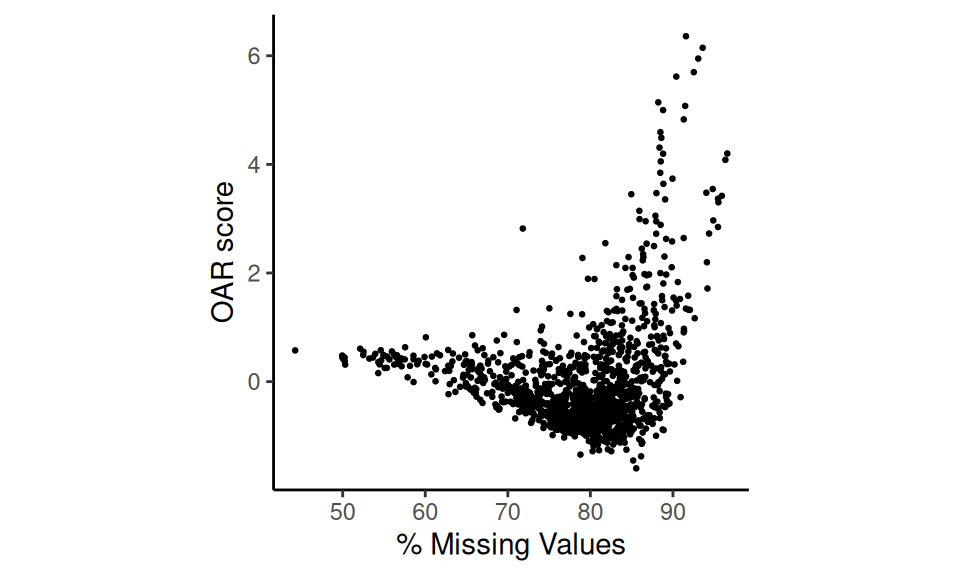
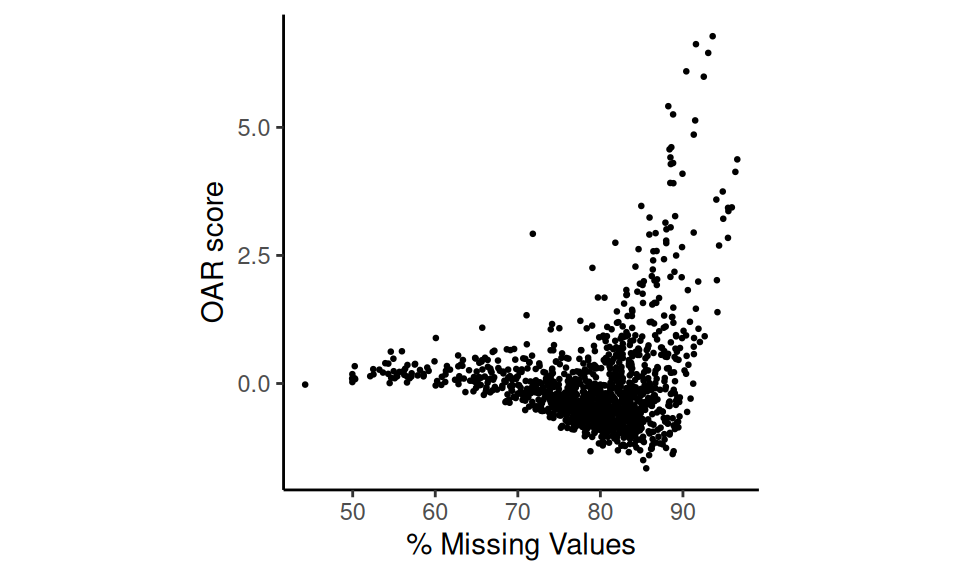
Deploying to gh-pages from @ Sanin-Lab/OARscRNA@3da549bfb78835ca9a3c819335ce7294ecba3215 🚀

diff --git a/articles/detailed_tutorial.html b/articles/detailed_tutorial.html
@@ -223,15 +223,13 @@ of this approach.</p>
 <code class="sourceCode R"><span><span class="va">mdp_auto_tol</span> <span class="op">&lt;-</span> <span class="fu"><a href="../reference/oar_missing_data_patterns.html">oar_missing_data_patterns</a></span><span class="op">(</span></span>
 <span>  <span class="va">oar_data</span><span class="op">[[</span><span class="fl">1</span><span class="op">]</span><span class="op">]</span>, <span class="va">dm</span>, tolerance <span class="op">=</span> <span class="cn">T</span><span class="op">)</span></span>
 <span><span class="co">#&gt; [1] "Scanning for optimal tolerance..."</span></span>
-<span><span class="co">#&gt; [1] "Tolerance set to 0.03"</span></span>
-<span><span class="co">#&gt; [1] "Identified 6 non-unique missing data patterns"</span></span>
-<span><span class="co">#&gt; [1] "A total of 187 genes captured in non-unique patterns"</span></span>
+<span><span class="co">#&gt; [1] "Tolerance set to 0.02"</span></span>
+<span><span class="co">#&gt; [1] "Identified 2 non-unique missing data patterns"</span></span>
+<span><span class="co">#&gt; [1] "A total of 593 genes captured in non-unique patterns"</span></span>
 <span><span class="fu"><a href="https://rdrr.io/r/base/table.html" class="external-link">table</a></span><span class="op">(</span><span class="va">mdp_auto_tol</span><span class="op">)</span></span>
 <span><span class="co">#&gt; mdp_auto_tol</span></span>
-<span><span class="co">#&gt;    B1.Pattern 1    B1.Pattern 2    B1.Pattern 3    B1.Pattern 4    B2.Pattern 1 </span></span>
-<span><span class="co">#&gt;               6              25              11               2               3 </span></span>
-<span><span class="co">#&gt;    B9.Pattern 1 Unique patterns </span></span>
-<span><span class="co">#&gt;             140           11519</span></span></code></pre></div>
+<span><span class="co">#&gt;  B1.P8 B10.P1 Unique </span></span>
+<span><span class="co">#&gt;    469    124  11113</span></span></code></pre></div>
 <p><strong>A few considerantions on tolerance setting:</strong> - Using
 a tolerance of 0 <em>(i.e. allowing only for exact matches)</em> results
 in very few, and often no, co-expressed gene patterns. This
@@ -248,7 +246,7 @@ will be faster. Values greater than 0 and lower than 0.05 are
 recommended.</p>
 <div class="sourceCode" id="cb8"><pre class="downlit sourceCode r">
 <code class="sourceCode R"><span><span class="fu"><a href="../reference/oar_missing_data_patterns.html">oar_missing_data_patterns</a></span><span class="op">(</span><span class="va">oar_data</span><span class="op">[[</span><span class="fl">1</span><span class="op">]</span><span class="op">]</span>, <span class="va">dm</span>, tolerance <span class="op">=</span> <span class="fl">0.05</span><span class="op">)</span></span></code></pre></div>
-<p>In this dataset a tolerance of 0.03 produced the best results, with 6
+<p>In this dataset a tolerance of 0.02 produced the best results, with 7
 distinct patters found across cells (plus the combination of all genes
 with non-unique patterns). We can visualize these results like this:</p>
 <div class="sourceCode" id="cb9"><pre class="downlit sourceCode r">
@@ -279,11 +277,11 @@ the gene expression values and the missing data patterns.</p>
 <code class="sourceCode R"><span><span class="va">output</span> <span class="op">&lt;-</span> <span class="fu"><a href="../reference/oar_base.html">oar_base</a></span><span class="op">(</span>data <span class="op">=</span> <span class="va">oar_data</span><span class="op">[[</span><span class="fl">1</span><span class="op">]</span><span class="op">]</span>, mdp <span class="op">=</span> <span class="va">mdp_auto_tol</span><span class="op">)</span></span>
 <span><span class="va">output</span><span class="op">$</span><span class="va">barcodes</span> <span class="op">=</span> <span class="va">cells</span> <span class="co">#add back our barcodes</span></span>
 <span><span class="va">output</span></span>
-<span><span class="co">#&gt;           OARscore     KW.pvalue  KW.BH.pvalue pct.missing             barcodes</span></span>
-<span><span class="co">#&gt; 1     1.921628e-01  4.270367e-98  6.172170e-98    79.46352 AAACCTGAGAACAATC-1_1</span></span>
-<span><span class="co">#&gt; 2     5.693256e-01  2.363281e-93  2.813753e-93    87.92927 AAACCTGAGGTGCTAG-1_1</span></span>
-<span><span class="co">#&gt; 3    -8.652167e-01 4.615539e-112 5.361790e-111    85.27251 AAACCTGGTAGCAAAT-1_1</span></span>
-<span><span class="co">#&gt; 4    -1.343913e+00 2.108008e-119 6.550633e-117    78.79720 AAACGGGGTACCCAAT-1_1</span></span>
+<span><span class="co">#&gt;          OARscore     KW.pvalue  KW.BH.pvalue pct.missing             barcodes</span></span>
+<span><span class="co">#&gt; 1     0.119972739  1.200031e-90  1.728434e-90    79.46352 AAACCTGAGAACAATC-1_1</span></span>
+<span><span class="co">#&gt; 2    -0.064520663  1.455368e-92  2.428218e-92    87.92927 AAACCTGAGGTGCTAG-1_1</span></span>
+<span><span class="co">#&gt; 3    -1.143314583 7.776601e-105 3.580117e-103    85.27251 AAACCTGGTAGCAAAT-1_1</span></span>
+<span><span class="co">#&gt; 4    -1.323178977 3.152359e-107 5.597688e-105    78.79720 AAACGGGGTACCCAAT-1_1</span></span>
 <span><span class="va">...</span></span></code></pre></div>
 <p>The result is a matrix with these columns:</p>
 <ul>
@@ -380,7 +378,7 @@ missing data patterns (mdp) they have been included in
 <span><span class="co">#&gt; [1] "Extracting data..."</span></span>
 <span><span class="co">#&gt; [1] "Extracting count tables"</span></span>
 <span><span class="co">#&gt; [1] "Analysis started on:"</span></span>
-<span><span class="co">#&gt; [1] "2025-04-29 20:19:58 UTC"</span></span>
+<span><span class="co">#&gt; [1] "2025-04-30 20:19:08 UTC"</span></span>
 <span><span class="co">#&gt; [1] "Identifying missing data patterns..."</span></span>
 <span><span class="va">...</span></span></code></pre></div>
 <p>We set these parameters based on our earlier results and adjusted to

diff --git a/articles/introductory_vignette.html b/articles/introductory_vignette.html
@@ -124,7 +124,7 @@ in the identification of the patterns.</p>
 <span><span class="co">#&gt; [1] "Extracting data..."</span></span>
 <span><span class="co">#&gt; [1] "Extracting count tables"</span></span>
 <span><span class="co">#&gt; [1] "Analysis started on:"</span></span>
-<span><span class="co">#&gt; [1] "2025-04-29 20:21:30 UTC"</span></span>
+<span><span class="co">#&gt; [1] "2025-04-30 20:20:42 UTC"</span></span>
 <span><span class="co">#&gt; [1] "Identifying missing data patterns..."</span></span>
 <span><span class="va">...</span></span></code></pre></div>
 <p>We deliberately left most parameters as defaults, however we
@@ -301,16 +301,16 @@ object by setting <code>seurat_v5</code> to <code>FALSE</code>.</p>
 <span><span class="co">#&gt; Warning in oar(data, seurat_v5 = FALSE, tolerance = TRUE, cores = 1): Running process in fewer than 2 cores will considerably slow down progress</span></span>
 <span><span class="co">#&gt; [1] "Extracting data..."</span></span>
 <span><span class="co">#&gt; [1] "Analysis started on:"</span></span>
-<span><span class="co">#&gt; [1] "2025-04-29 20:21:56 UTC"</span></span>
+<span><span class="co">#&gt; [1] "2025-04-30 20:21:05 UTC"</span></span>
 <span><span class="co">#&gt; [1] "Identifying missing data patterns..."</span></span>
 <span><span class="co">#&gt; [1] "Calculating Hamming distances between gene vectors using specified cores."</span></span>
 <span><span class="va">...</span></span>
 <span><span class="va">oar_data</span></span>
-<span><span class="co">#&gt;           OARscore     KW.pvalue  KW.BH.pvalue pct.missing</span></span>
-<span><span class="co">#&gt; 1     1.921628e-01  4.270367e-98  6.172170e-98    79.46352</span></span>
-<span><span class="co">#&gt; 2     5.693256e-01  2.363281e-93  2.813753e-93    87.92927</span></span>
-<span><span class="co">#&gt; 3    -8.652167e-01 4.615539e-112 5.361790e-111    85.27251</span></span>
-<span><span class="co">#&gt; 4    -1.343913e+00 2.108008e-119 6.550633e-117    78.79720</span></span>
+<span><span class="co">#&gt;          OARscore     KW.pvalue  KW.BH.pvalue pct.missing</span></span>
+<span><span class="co">#&gt; 1     0.119972739  1.200031e-90  1.728434e-90    79.46352</span></span>
+<span><span class="co">#&gt; 2    -0.064520663  1.455368e-92  2.428218e-92    87.92927</span></span>
+<span><span class="co">#&gt; 3    -1.143314583 7.776601e-105 3.580117e-103    85.27251</span></span>
+<span><span class="co">#&gt; 4    -1.323178977 3.152359e-107 5.597688e-105    78.79720</span></span>
 <span><span class="va">...</span></span></code></pre></div>
 <p>This results in a table with the following columns:</p>
 <ul>

diff --git a/articles/Gene_expression.html b/articles/Gene_expression.html
@@ -113,7 +113,7 @@ function. The result is a Seurat object with <code>OARscore</code>,
 <span><span class="co">#&gt; [1] "Extracting data..."</span></span>
 <span><span class="co">#&gt; [1] "Extracting count tables"</span></span>
 <span><span class="co">#&gt; [1] "Analysis started on:"</span></span>
-<span><span class="co">#&gt; [1] "2025-04-29 20:20:15 UTC"</span></span>
+<span><span class="co">#&gt; [1] "2025-04-30 20:19:26 UTC"</span></span>
 <span><span class="co">#&gt; [1] "Identifying missing data patterns..."</span></span>
 <span><span class="va">...</span></span></code></pre></div>
 <p>To explore which cells/clusters have the most heterogeneity, we can
@@ -163,13 +163,13 @@ computing.</p>
 <span>    splines <span class="op">=</span> <span class="cn">TRUE</span>, degrees.freedom <span class="op">=</span> <span class="fl">5</span>,</span>
 <span>    auto.threshold <span class="op">=</span> <span class="cn">TRUE</span>, custom.tr <span class="op">=</span> <span class="cn">NULL</span><span class="op">)</span></span>
 <span><span class="co">#&gt; [1] "Analysis started on:"</span></span>
-<span><span class="co">#&gt; [1] "2025-04-29 20:20:22 UTC"</span></span>
+<span><span class="co">#&gt; [1] "2025-04-30 20:19:33 UTC"</span></span>
 <span><span class="co">#&gt; [1] "Extracting count tables"</span></span>
 <span><span class="co">#&gt; [1] "FDR threshold set to:"</span></span>
 <span><span class="co">#&gt; [1] 1e-20</span></span>
 <span><span class="co">#&gt; Warning in oar_deg(data = sc.data, seurat_v5 = T, score.name = "OARscore", : Using splines increases calculation time by 3-5x</span></span>
 <span><span class="co">#&gt; [1] "Analysis completed at:"</span></span>
-<span><span class="co">#&gt; [1] "2025-04-29 20:21:15 UTC"</span></span></code></pre></div>
+<span><span class="co">#&gt; [1] "2025-04-30 20:20:26 UTC"</span></span></code></pre></div>
 <p>A brief explanation of these parameters is presented here:</p>
 <ul>
 <li>

diff --git a/index.html b/index.html
@@ -116,6 +116,7 @@
 <p><code>devtools::install_github("Sanin-Lab/OARscRNA")</code></p>
 <p>If you want to install our vignettes (takes a few minutes!), try:</p>
 <p><code>devtools::install_github("Sanin-Lab/OARscRNA", build_vignettes = TRUE)</code></p>
+<p><strong>For Mac and Linux users</strong>: The package uses <code><a href="https://rdrr.io/pkg/FastHamming/man/hamming_distance.html" class="external-link">FastHamming::hamming_distance()</a></code> to speed up the hamming distance calculation. This function requires you to install <code>OpenMP</code>. To install via Homebrew run on your terminal: <code>brew install libomp</code></p>
 </div>
 <div class="section level2">
 <h2 id="usage">Usage<a class="anchor" aria-label="anchor" href="#usage"></a>
